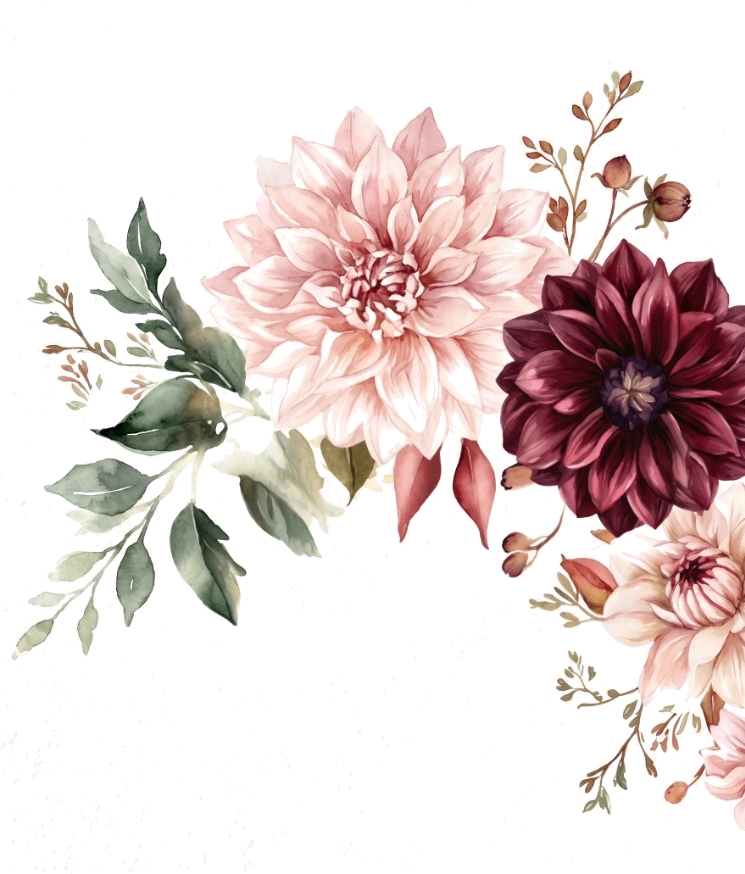
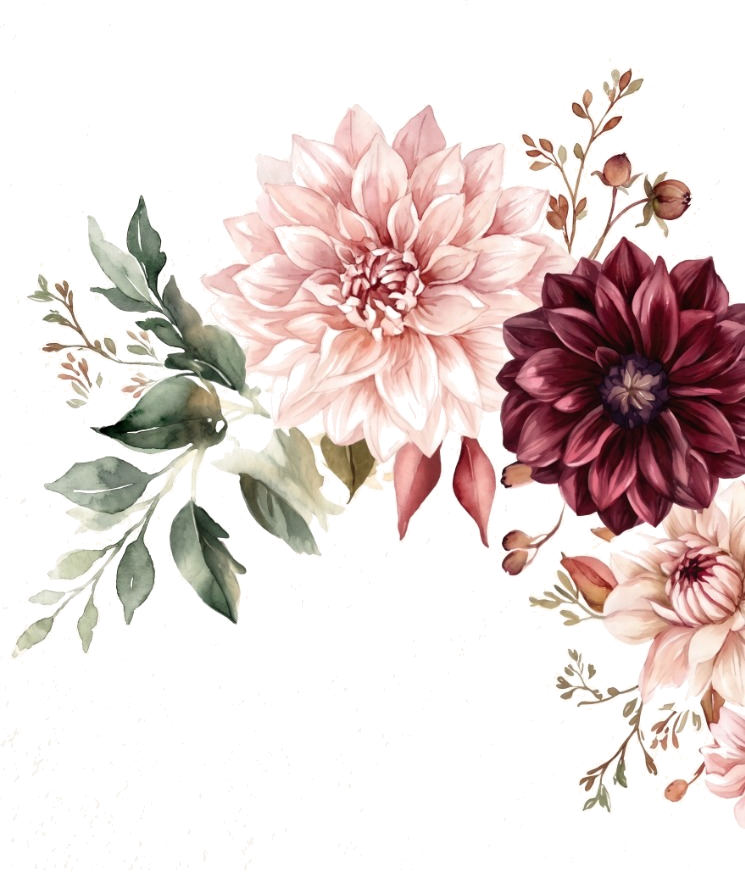
feat: fiori alzati verso il vertice superiore e staccati dal testo per non sovrapporsi

diff --git a/src/components/Hero.tsx b/src/components/Hero.tsx
@@ -2,13 +2,15 @@ import React from 'react';
 
 export const Hero: React.FC = () => {
   return (
-    <header className="relative pt-24 sm:pt-28 pb-8 sm:pb-12 px-4 text-center overflow-hidden flex flex-col items-center justify-center bg-white">
+    <header className="relative pt-28 sm:pt-32 pb-8 sm:pb-12 px-4 text-center overflow-hidden flex flex-col items-center justify-center bg-white">
       {/* 
-        Angolo Floreale Botanico (Proposta A a Destra con foglie complete a punte naturali):
-        Collocato nell'angolo superiore destro, con foglie che terminano organicamente senza alcun taglio netto.
-        Dimensione calibrata su mobile (w-[180px] sm:w-[260px] md:w-[340px]) per non invadere lo spazio del testo.
+        Angolo Floreale Botanico portato in ALTO a filo e calibrato:
+        - Su mobile: portato a filo superiore con offset negativo (-top-4 sm:-top-6) 
+          e larghezza controllata (w-[145px] sm:w-[220px] md:w-[280px])
+        - In questo modo i fiori rimangono confinati nel vertice superiore destro 
+          e non scendono mai a intersecare o toccare 'Partecipazione di Nozze' e 'Michele'
       */}
-      <div className="absolute top-0 right-0 w-[180px] sm:w-[260px] md:w-[340px] pointer-events-none select-none z-0">
+      <div className="absolute -top-3 sm:-top-5 -right-2 sm:-right-3 w-[145px] sm:w-[210px] md:w-[270px] pointer-events-none select-none z-0">
         <img
           src="./images/corner_floreale_top_right.png"
           alt="Angolo floreale di dalie ad acquerello"
